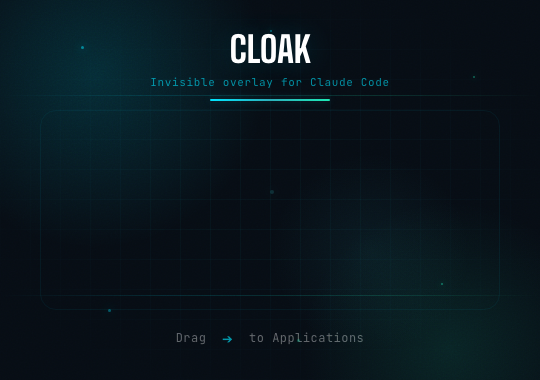
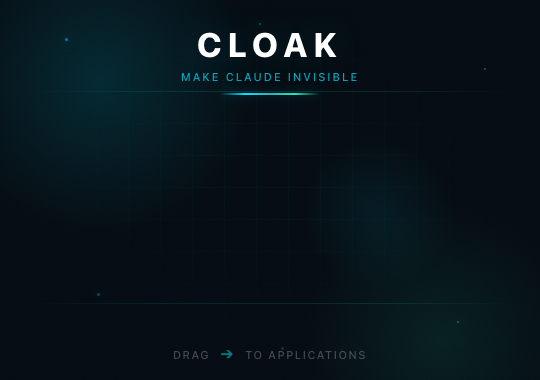
Redesign DMG installer — clean layout, system fonts, Make Claude Invisible tagline

diff --git a/resources/dmg-background.html b/resources/dmg-background.html
@@ -1,131 +1,100 @@
 <!DOCTYPE html>
 <html lang="en"><head><meta charset="UTF-8">
 <style>
-@font-face {
-    font-family: 'BigShoulders';
-    src: url('file:///Users/jaypokharna/.claude/plugins/marketplaces/claude-superkit/canvas-super-creator/skills/canvas-super-creator/canvas-fonts/BigShoulders-Bold.ttf') format('truetype');
-    font-weight: 700;
-}
-@font-face {
-    font-family: 'JetBrainsMono';
-    src: url('file:///Users/jaypokharna/.claude/plugins/marketplaces/claude-superkit/canvas-super-creator/skills/canvas-super-creator/canvas-fonts/JetBrainsMono-Regular.ttf') format('truetype');
-    font-weight: 400;
-}
-
 *, *::before, *::after { margin: 0; padding: 0; box-sizing: border-box; }
 html, body { width: 540px; height: 380px; overflow: hidden; -webkit-font-smoothing: antialiased; }
 
 body {
-    --bg: #070D14;
+    --bg: #060C12;
     --accent: #00E5FF;
     --accent2: #1DE9B6;
     --accent3: #2CB1BC;
     position: relative;
     background: var(--bg);
+    font-family: -apple-system, BlinkMacSystemFont, 'SF Pro Display', 'Helvetica Neue', sans-serif;
 }
 
-/* Grid */
+/* Grid — subtle tech feel */
 .grid {
     position: absolute; top: 0; left: 0; width: 100%; height: 100%;
     background:
-        repeating-linear-gradient(0deg, rgba(0,229,255,0.03) 0px, rgba(0,229,255,0.03) 1px, transparent 1px, transparent 30px),
-        repeating-linear-gradient(90deg, rgba(0,229,255,0.03) 0px, rgba(0,229,255,0.03) 1px, transparent 1px, transparent 30px);
-    mask-image: radial-gradient(ellipse 80% 80% at 50% 50%, black 20%, transparent 70%);
-    -webkit-mask-image: radial-gradient(ellipse 80% 80% at 50% 50%, black 20%, transparent 70%);
+        repeating-linear-gradient(0deg, rgba(0,229,255,0.025) 0px, rgba(0,229,255,0.025) 1px, transparent 1px, transparent 32px),
+        repeating-linear-gradient(90deg, rgba(0,229,255,0.025) 0px, rgba(0,229,255,0.025) 1px, transparent 1px, transparent 32px);
+    mask-image: radial-gradient(ellipse 70% 70% at 50% 45%, black 15%, transparent 65%);
+    -webkit-mask-image: radial-gradient(ellipse 70% 70% at 50% 45%, black 15%, transparent 65%);
     z-index: 1;
 }
 
-/* Orbs */
+/* Orbs — ambient energy */
 .orb { position: absolute; border-radius: 50%; z-index: 1; }
-.orb-1 { width: 350px; height: 350px; background: radial-gradient(circle, rgba(0,229,255,0.14) 0%, transparent 70%); top: -100px; left: -80px; }
-.orb-2 { width: 300px; height: 300px; background: radial-gradient(circle, rgba(29,233,182,0.1) 0%, transparent 70%); bottom: -120px; right: -60px; }
-.orb-3 { width: 200px; height: 200px; background: radial-gradient(circle, rgba(44,177,188,0.08) 0%, transparent 70%); top: 40%; left: 50%; }
+.orb-1 { width: 320px; height: 320px; background: radial-gradient(circle, rgba(0,229,255,0.13) 0%, transparent 70%); top: -80px; left: -60px; }
+.orb-2 { width: 280px; height: 280px; background: radial-gradient(circle, rgba(29,233,182,0.09) 0%, transparent 70%); bottom: -100px; right: -40px; }
+.orb-3 { width: 160px; height: 160px; background: radial-gradient(circle, rgba(0,229,255,0.07) 0%, transparent 70%); top: 35%; left: 55%; }
 
-/* Particles */
+/* Particles — floating energy dots */
 .p { position: absolute; border-radius: 50%; z-index: 5; }
-.p1 { width: 3px; height: 3px; background: var(--accent); top: 12%; left: 15%; opacity: 0.5; box-shadow: 0 0 8px var(--accent); }
-.p2 { width: 2px; height: 2px; background: var(--accent2); top: 20%; right: 12%; opacity: 0.4; box-shadow: 0 0 6px var(--accent2); }
-.p3 { width: 3px; height: 3px; background: var(--accent); bottom: 18%; left: 20%; opacity: 0.35; box-shadow: 0 0 10px var(--accent); }
-.p4 { width: 2px; height: 2px; background: var(--accent2); bottom: 25%; right: 18%; opacity: 0.45; box-shadow: 0 0 6px var(--accent2); }
-.p5 { width: 4px; height: 4px; background: var(--accent3); top: 50%; left: 50%; opacity: 0.2; box-shadow: 0 0 12px var(--accent3); }
-.p6 { width: 2px; height: 2px; background: var(--accent); top: 8%; left: 50%; opacity: 0.4; box-shadow: 0 0 6px var(--accent); }
-.p7 { width: 3px; height: 3px; background: var(--accent2); bottom: 10%; left: 55%; opacity: 0.3; box-shadow: 0 0 8px var(--accent2); }
+.p1 { width: 3px; height: 3px; background: var(--accent); top: 10%; left: 12%; opacity: 0.5; box-shadow: 0 0 10px var(--accent); }
+.p2 { width: 2px; height: 2px; background: var(--accent2); top: 18%; right: 10%; opacity: 0.4; box-shadow: 0 0 8px var(--accent2); }
+.p3 { width: 3px; height: 3px; background: var(--accent); bottom: 22%; left: 18%; opacity: 0.3; box-shadow: 0 0 10px var(--accent); }
+.p4 { width: 2px; height: 2px; background: var(--accent2); bottom: 15%; right: 15%; opacity: 0.4; box-shadow: 0 0 8px var(--accent2); }
+.p5 { width: 2px; height: 2px; background: var(--accent); top: 6%; left: 48%; opacity: 0.35; box-shadow: 0 0 6px var(--accent); }
+.p6 { width: 3px; height: 3px; background: var(--accent3); bottom: 8%; left: 52%; opacity: 0.25; box-shadow: 0 0 8px var(--accent3); }
 
 /* Accent lines */
 .line-h {
     position: absolute; left: 0; right: 0; height: 1px; z-index: 2;
-    background: linear-gradient(90deg, transparent, rgba(0,229,255,0.12) 30%, rgba(29,233,182,0.15) 70%, transparent);
+    background: linear-gradient(90deg, transparent 5%, rgba(0,229,255,0.1) 30%, rgba(29,233,182,0.12) 70%, transparent 95%);
 }
-.lh1 { top: 25%; }
-.lh2 { bottom: 22%; }
+.lh1 { top: 24%; }
+.lh2 { bottom: 20%; }
 
-/* Content */
-.content {
-    position: absolute; top: 0; left: 0; width: 100%; height: 100%;
-    display: flex; flex-direction: column; align-items: center; justify-content: flex-start;
-    z-index: 10;
+/* Noise grain */
+.noise {
+    position: absolute; top: 0; left: 0; width: 540px; height: 380px;
+    z-index: 3; pointer-events: none; opacity: 0.25; mix-blend-mode: overlay;
 }
 
-/* Title area */
+/* Title — top center */
 .title-area {
-    margin-top: 28px;
-    text-align: center;
+    position: absolute; top: 24px; left: 0; right: 0;
+    text-align: center; z-index: 10;
 }
 .title {
-    font-family: 'BigShoulders', sans-serif;
-    font-size: 36px; font-weight: 700;
+    font-size: 34px; font-weight: 800;
     color: #fff;
-    letter-spacing: -0.01em;
-    text-shadow: 0 0 30px rgba(0,229,255,0.2);
+    letter-spacing: 6px;
+    text-transform: uppercase;
+    text-shadow: 0 0 40px rgba(0,229,255,0.2), 0 0 80px rgba(0,229,255,0.08);
 }
-.subtitle {
-    font-family: 'JetBrainsMono', monospace;
-    font-size: 11px; color: rgba(0,229,255,0.6);
-    margin-top: 4px; letter-spacing: 0.06em;
-}
-
-/* Install instruction */
-.install-hint {
-    position: absolute;
-    bottom: 30px;
-    width: 100%;
-    text-align: center;
-    font-family: 'JetBrainsMono', monospace;
-    font-size: 12px;
-    color: rgba(255,255,255,0.35);
-    letter-spacing: 0.04em;
-}
-.install-hint .arrow {
-    display: inline-block;
+.tagline {
+    font-size: 11px; font-weight: 500;
     color: var(--accent);
-    font-size: 18px;
-    vertical-align: middle;
-    margin: 0 8px;
-    opacity: 0.6;
+    margin-top: 6px;
+    letter-spacing: 2px;
+    text-transform: uppercase;
+    opacity: 0.7;
 }
-
-/* Divider below title */
 .divider {
-    width: 120px; height: 2px; margin-top: 10px;
-    background: linear-gradient(90deg, var(--accent), var(--accent3), var(--accent2));
+    width: 100px; height: 2px; margin: 10px auto 0;
+    background: linear-gradient(90deg, transparent, var(--accent), var(--accent3), var(--accent2), transparent);
     border-radius: 1px;
-    box-shadow: 0 0 8px rgba(0,229,255,0.25);
+    box-shadow: 0 0 12px rgba(0,229,255,0.3);
 }
 
-/* Noise */
-.noise {
-    position: absolute; top: 0; left: 0; width: 100%; height: 100%;
-    z-index: 3; pointer-events: none; opacity: 0.3; mix-blend-mode: overlay;
+/* Bottom hint */
+.hint {
+    position: absolute; bottom: 18px; left: 0; right: 0;
+    text-align: center; z-index: 10;
+    font-size: 11px; font-weight: 500;
+    color: rgba(255,255,255,0.25);
+    letter-spacing: 1.5px;
+    text-transform: uppercase;
 }
-
-/* Drop zone area — where icons sit (transparent so DMG icons show through) */
-.drop-zone {
-    position: absolute;
-    top: 110px; left: 40px; right: 40px; bottom: 70px;
-    /* Subtle border to frame the icon area */
-    border: 1px solid rgba(0,229,255,0.06);
-    border-radius: 16px;
-    z-index: 4;
+.hint .arr {
+    color: var(--accent);
+    opacity: 0.5;
+    font-size: 14px;
+    margin: 0 6px;
 }
 </style>
 </head>
@@ -135,35 +104,26 @@ body {
 <div class="orb orb-1"></div>
 <div class="orb orb-2"></div>
 <div class="orb orb-3"></div>
-
 <div class="line-h lh1"></div>
 <div class="line-h lh2"></div>
-
 <div class="p p1"></div>
 <div class="p p2"></div>
 <div class="p p3"></div>
 <div class="p p4"></div>
 <div class="p p5"></div>
 <div class="p p6"></div>
-<div class="p p7"></div>
 
-<svg class="noise" width="100%" height="100%">
+<svg class="noise" viewBox="0 0 540 380">
   <filter id="g"><feTurbulence type="fractalNoise" baseFrequency="0.65" numOctaves="3" stitchTiles="stitch"/></filter>
-  <rect width="100%" height="100%" filter="url(#g)"/>
+  <rect width="540" height="380" filter="url(#g)"/>
 </svg>
 
-<div class="content">
-    <div class="title-area">
-        <div class="title">CLOAK</div>
-        <div class="subtitle">Invisible overlay for Claude Code</div>
-        <div class="divider" style="margin: 10px auto 0;"></div>
-    </div>
+<div class="title-area">
+    <div class="title">Cloak</div>
+    <div class="tagline">Make Claude Invisible</div>
+    <div class="divider"></div>
 </div>
 
-<div class="drop-zone"></div>
-
-<div class="install-hint">
-    Drag <span class="arrow">&#10132;</span> to Applications
-</div>
+<div class="hint">Drag <span class="arr">&#10132;</span> to Applications</div>
 
 </body></html>
